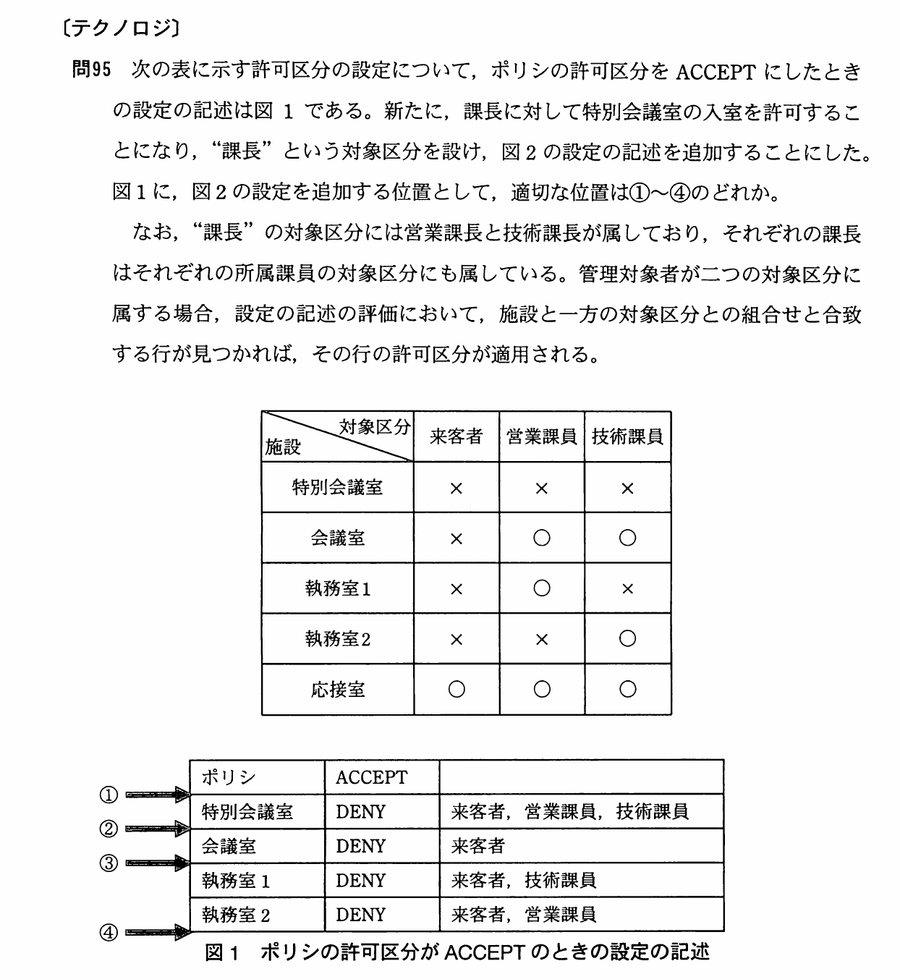
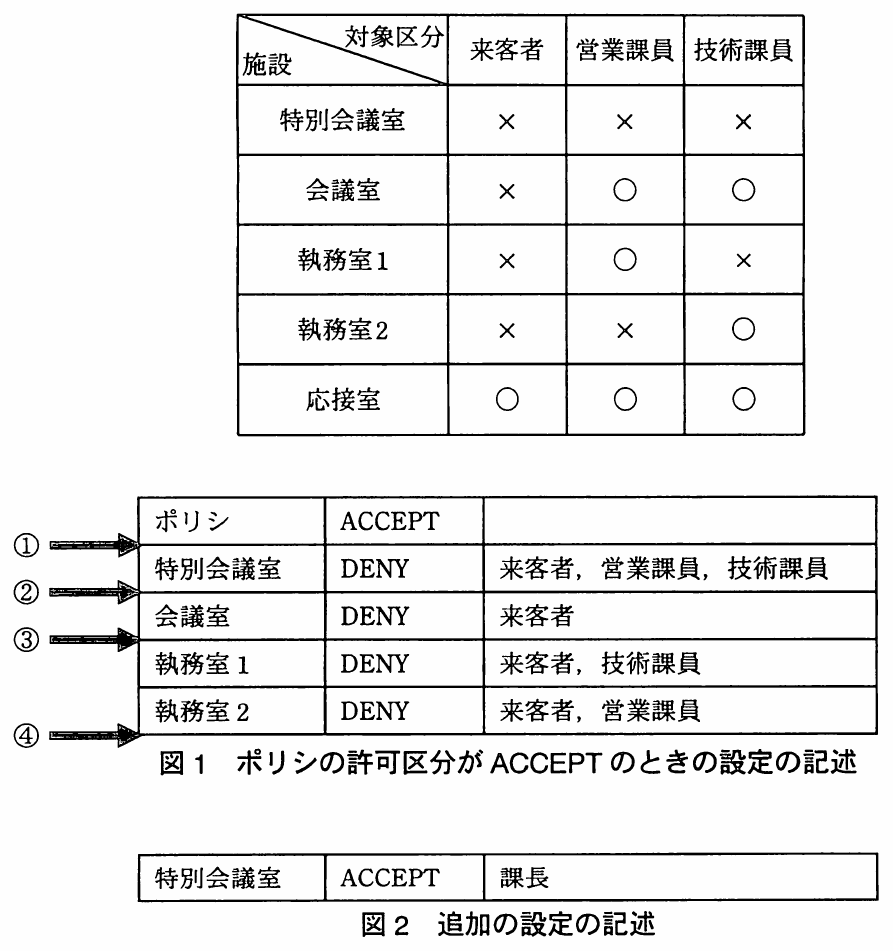
data(quiz): S128 C3 図再裁断 22 題 (L2d 盲点走査 + Rule D 検証済 major 19 / medium 3、staging と byte 一致)。correct_answer 0
Claude-Session: https://claude.ai/code/session_017yK7cBkoy3fmeBzxM4mkut

Changed region(s): [[0.0, 0.0, 0.9978, 1.0], [0.0605, 0.061, 0.1209, 0.0915], [0.0605, 0.0, 0.1209, 0.0305]]

diff --git a/docs/discussion/2026-10-20-session-128.md b/docs/discussion/2026-10-20-session-128.md
@@ -96,3 +96,4 @@
 - A3 commit `12d7e0b` push → B2 lock 付与。**B2 apply 完了**: rebase 差 0 (A3 と from 非重複)、applied 111 / skipped 22、21 題 / 31 差分 (cos 14 / sem 17 / aa 0)、correct_answer 0、D-143 note 12 純追記、post machdiff 実残差 0、gates 全 PASS。Rule D (b2-reviewer、`pr-review-toolkit:code-reviewer` opus) 起動。
 - **B2 Rule D** = **PASS-with-notes / APPROVE** (MAJOR 0、抽検 8 題 0 見落とし)。B2 commit + push → **C3 に lock 付与**。
 - **B3 prep 完了** (2014h26a): 100/100、precrop 84/100 (L1b 版: 45 頁 ok 43 / pm 2 [OI-1 型安全側 skip] / qnum_mismatch 0、confusable_only 5 頁)、mqC 未登録 (A4 batch2 起草済、fixer は前文領域を触らない)、A1 未処置 high 152 件 / 31 題。**B3 核験 run 起動** (起動時 5h 61- **B3 prep 完了** (2014h26a): 100/100、precrop 84/100 (L1b 版: 45 頁 ok 43 / pm 2 [OI-1 型安全側 skip] / qnum_mismatch 0、confusable_only 5 頁)、mqC 未登録 (A4 batch2 起草済、fixer は前文領域を触らない)、A1 未処置 high 152 件 / 31 題。**B3 核験 run `wf_9acfde38-db3` 起動** (起動時 5h 61%、reset 17:00 JST)。
+- **C3 apply 完了**: recrop 22、figures PNG は staging crop と 22/22 byte 一致 (= Rule D c3-verifier が画素照合した crop そのもの、よって apply 後の追加 Rule D は不要と主 context 判断)、webp 変更ちょうど 22、correct_answer 0、gates 全 GREEN、bbox 回写なし (⑨)。C3 commit → **A4 に lock 付与** (main 15 組 → B2 commit 済なので after_B2 の 2014h26h-mqA も同時に可)。
